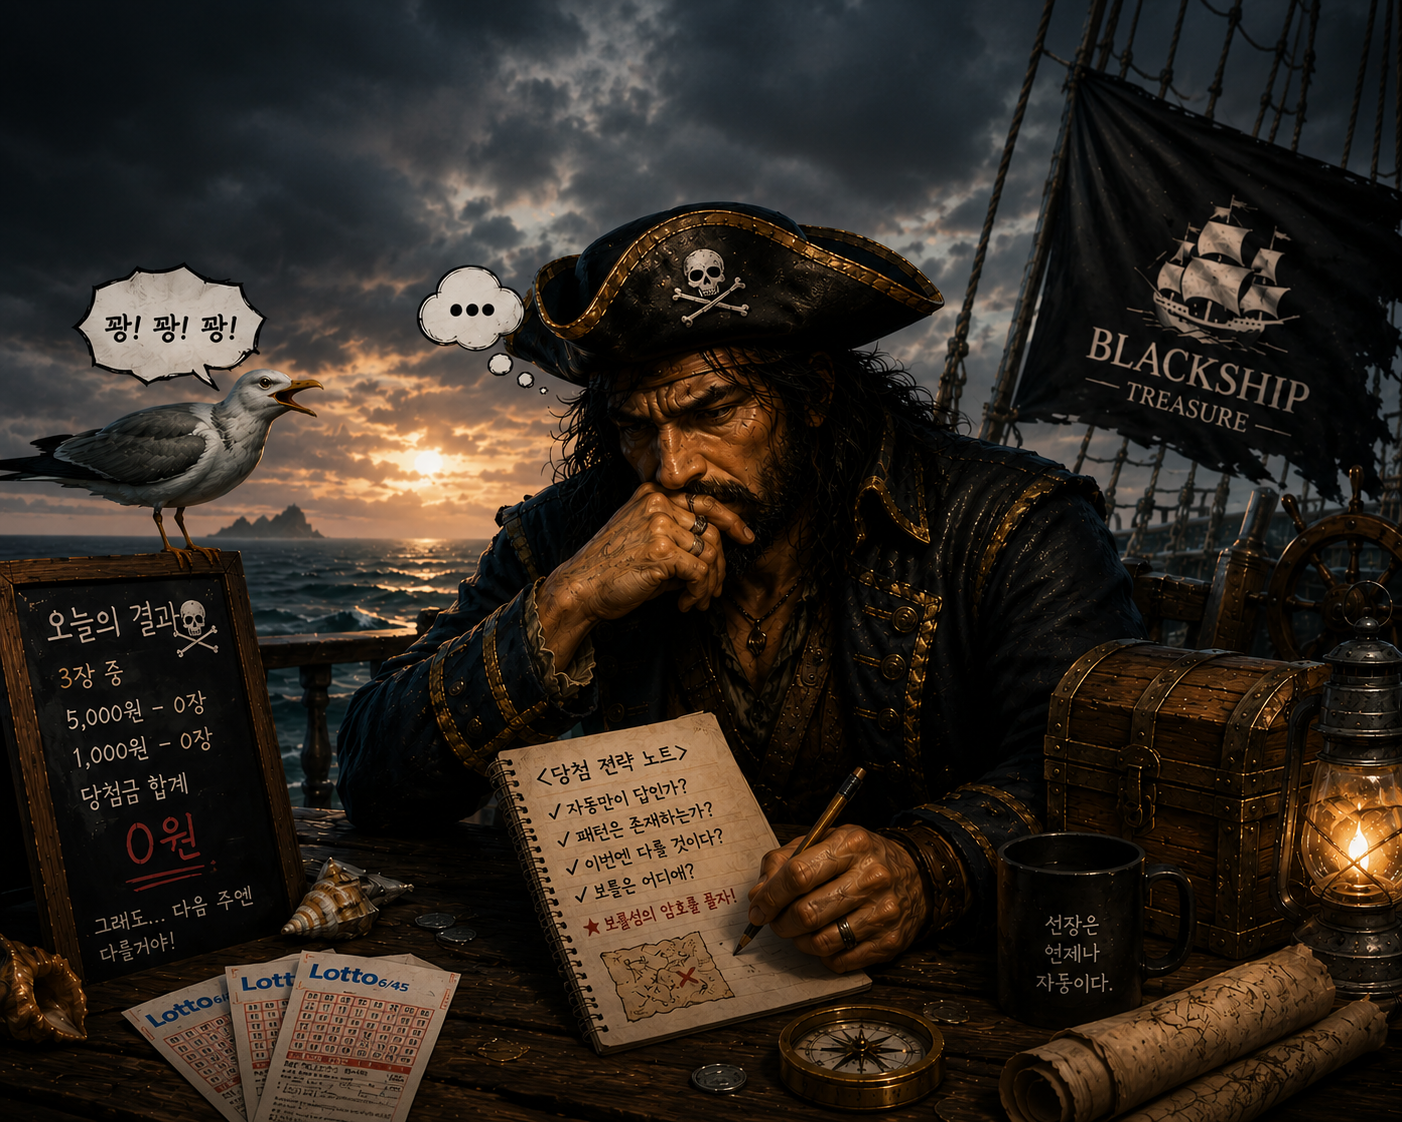
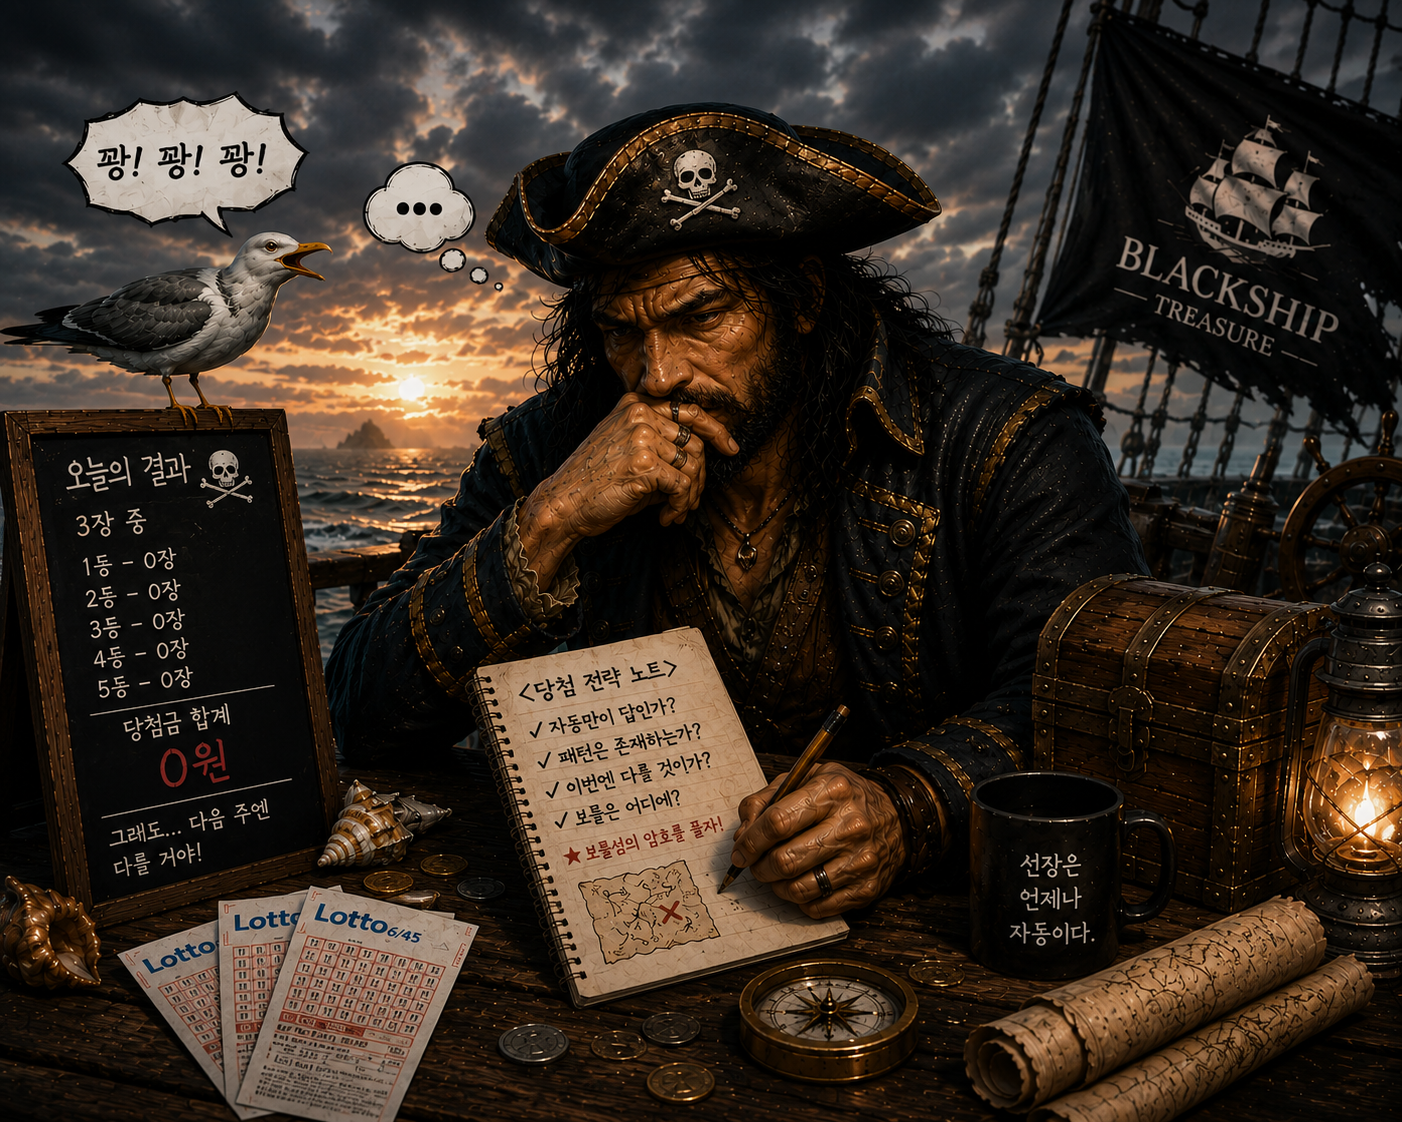
Update Badamail

diff --git a/badamail-20260706-224421.html b/badamail-20260706-224421.html
@@ -1,0 +1,56 @@
+<!doctype html>
+<html lang="ko">
+<head>
+  <meta charset="utf-8">
+  <meta name="viewport" content="width=device-width, initial-scale=1">
+  <title>바다메일 | Blackship Treasure</title>
+  <meta name="description" content="블랙쉽 선장 플린트호크가 이미지와 함께 띄운 바다메일입니다.">
+  <meta name="robots" content="index, follow">
+  <meta property="og:site_name" content="Blackship">
+  <meta property="og:title" content="바다메일 | Blackship Treasure">
+  <meta property="og:description" content="블랙쉽 선장 플린트호크가 이미지와 함께 띄운 바다메일입니다.">
+  <meta property="og:type" content="website">
+  <link rel="alternate" hreflang="ko" href="https://blackship.kr/badamail-20260706-224421.html">
+  <link rel="alternate" hreflang="en" href="https://blackship.kr/en/badamail-20260706-224421.html">
+  <link rel="alternate" hreflang="x-default" href="https://blackship.kr/badamail-20260706-224421.html">
+  <link rel="icon" href="favicon.ico" type="image/x-icon">
+  <link rel="stylesheet" href="style.css">
+</head>
+<body>
+  <header class="site-header">
+    <a class="logo" href="index.html">Blackship</a>
+    <nav class="nav">
+      <a href="index.html">홈</a>
+      <a href="electronics.html">전자기기</a>
+      <a href="living.html">생활용품</a>
+      <a href="hobby.html">취미·야외</a>
+      <a href="fashion.html">패션잡화</a>
+      <a href="car.html">자동차용품</a>
+      <a href="pet.html">반려동물</a>
+      <a href="beauty.html">뷰티·건강</a>
+      <a href="badamail.html">바다메일</a>
+    </nav>
+  </header>
+
+  <main>
+    
+    <h1>바다메일</h1>
+    <article class="badamail-post">
+      <div class="badamail-date">2026-07-06 22:44:21</div>
+      <p>나는 중딩 때 우연히 구아바 주스를 마셨지!
+그때 나는 결심했어.
+&quot;그래! 나는 탐험가가 되겠어!&quot;
+모든 것은 그 구아바 주스 한 팩에서 시작됐지!
+파하하하~!</p>
+<img class="badamail-post-image" src="badamail/images/3.png" alt="바다메일 이미지" loading="lazy">
+      <p><a class="badamail-link" href="badamail.html">바다메일로 돌아가기</a></p>
+    </article>
+    
+  </main>
+
+  <footer class="site-footer">
+    <p>이 페이지는 제휴 링크를 포함할 수 있으며, 구매 시 운영자에게 일정 수수료가 지급될 수 있습니다.</p>
+    <p>가격과 할인율은 변동될 수 있으므로 구매 전 판매 페이지에서 최종 정보를 확인하세요.</p>
+  </footer>
+</body>
+</html>

diff --git a/en/badamail-20260706-224421.html b/en/badamail-20260706-224421.html
@@ -1,0 +1,56 @@
+<!doctype html>
+<html lang="en">
+<head>
+  <meta charset="utf-8">
+  <meta name="viewport" content="width=device-width, initial-scale=1">
+  <title>Sea Mail | Blackship Treasure</title>
+  <meta name="description" content="A photo sea mail note from Captain Flinthawke of Blackship.">
+  <meta name="robots" content="index, follow">
+  <meta property="og:site_name" content="Blackship">
+  <meta property="og:title" content="Sea Mail | Blackship Treasure">
+  <meta property="og:description" content="A photo sea mail note from Captain Flinthawke of Blackship.">
+  <meta property="og:type" content="website">
+  <link rel="alternate" hreflang="ko" href="https://blackship.kr/badamail-20260706-224421.html">
+  <link rel="alternate" hreflang="en" href="https://blackship.kr/en/badamail-20260706-224421.html">
+  <link rel="alternate" hreflang="x-default" href="https://blackship.kr/badamail-20260706-224421.html">
+  <link rel="icon" href="favicon.ico" type="image/x-icon">
+  <link rel="stylesheet" href="style.css">
+</head>
+<body>
+  <header class="site-header">
+    <a class="logo" href="index.html">Blackship</a>
+    <nav class="nav">
+      <a href="index.html">Home</a>
+      <a href="electronics.html">Electronics</a>
+      <a href="living.html">Living</a>
+      <a href="hobby.html">Outdoor</a>
+      <a href="fashion.html">Fashion Accessories</a>
+      <a href="car.html">Car Accessories</a>
+      <a href="pet.html">Pet Supplies</a>
+      <a href="beauty.html">Beauty &amp; Health</a>
+      <a href="badamail.html">Mail</a>
+    </nav>
+  </header>
+
+  <main>
+    
+    <h1>Sea Mail</h1>
+    <article class="badamail-post">
+      <div class="badamail-date">2026-07-06 22:44:21</div>
+      <p>나는 중딩 때 우연히 구아바 주스를 마셨지!
+그때 나는 결심했어.
+&quot;그래! 나는 탐험가가 되겠어!&quot;
+모든 것은 그 구아바 주스 한 팩에서 시작됐지!
+파하하하~!</p>
+<img class="badamail-post-image" src="badamail/images/3.png" alt="바다메일 이미지" loading="lazy">
+      <p><a class="badamail-link" href="badamail.html">Back to Sea Mail</a></p>
+    </article>
+    
+  </main>
+
+  <footer class="site-footer">
+    <p>This page may contain affiliate links. The operator may earn a commission from qualifying purchases.</p>
+    <p>Prices and discounts can change. Please confirm the final information on the seller page before buying.</p>
+  </footer>
+</body>
+</html>

diff --git a/badamail.html b/badamail.html
@@ -39,6 +39,13 @@
     
     <section class="badamail-list">
         <article class="badamail-item">
+          <div class="badamail-date">2026-07-06 22:44:21</div>
+          <p class="badamail-text">나는 중딩 때 우연히 구아바 주스를 마셨지!</p>
+          <a class="badamail-link" href="badamail-20260706-224421.html">사진 바다메일 보기</a>
+        </article>
+                
+
+        <article class="badamail-item">
           <div class="badamail-date">2026-07-04 21:24:49</div>
           <p class="badamail-text">저리 가~ 나 우는 거 아니야, 생각 중이야!</p>
           <a class="badamail-link" href="badamail-20260704-212449.html">사진 바다메일 보기</a>

diff --git a/en/badamail.html b/en/badamail.html
@@ -45,6 +45,13 @@
         
     <section class="badamail-list">
         <article class="badamail-item">
+          <div class="badamail-date">2026-07-06 22:44:21</div>
+          <p class="badamail-text">나는 중딩 때 우연히 구아바 주스를 마셨지!</p>
+          <a class="badamail-link" href="badamail-20260706-224421.html">Open photo mail</a>
+        </article>
+                
+
+        <article class="badamail-item">
           <div class="badamail-date">2026-07-04 21:24:49</div>
           <p class="badamail-text">저리 가~ 나 우는 거 아니야, 생각 중이야!</p>
           <a class="badamail-link" href="badamail-20260704-212449.html">Open photo mail</a>